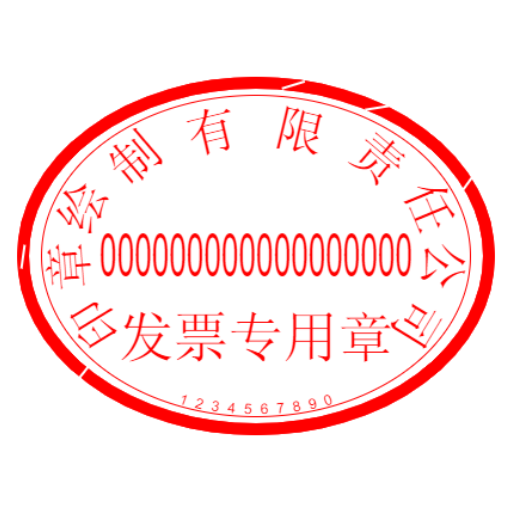
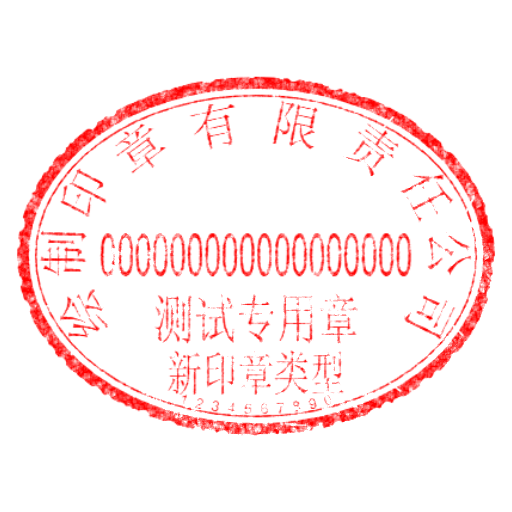
docs: 修改README.md说明和图片

Changed region(s): [[0.0312, 0.125, 0.9688, 0.875]]

diff --git a/README.md b/README.md
@@ -74,9 +74,7 @@ npm run preview
 ![Stamp Example](public/stamp_withimage.png)
 ![Stamp Example](public/stamp_multiline.png)
 ![Stamp Example](public/seal.png)
-![Stamp Designer](public/roughedge.png)
 ![Stamp Designer](public/designer.png)
-![Stamp Designer](public/stamp_break.png)
 DrawStampUtils.ts 使用说明
 
 DrawStampUtils.ts 是该项目的核心文件之一，用于生成电子印章。以下是如何使用 DrawStampUtils.ts 的示例：
@@ -159,98 +157,98 @@ DrawStampUtils 支持以下配置选项：
 
 以下是 DrawStampUtils 支持的主要配置选项及其功能：
 
-| 配置选项 | 功能描述 |
-|---------|--------|
-| ISecurityPattern | 控制防伪纹路的相关参数 |
-| - openSecurityPattern | 是否启用防伪纹路 |
-| - securityPatternWidth | 设置防伪纹路的宽度 |
-| - securityPatternLength | 设置防伪纹路的长度 |
-| - securityPatternCount | 设置防伪纹路的数量 |
-| - securityPatternAngleRange | 设置防伪纹路的角度范围 |
-| ICompany | 控制印章公司相关的参数 |
-| - companyName | 设置公司名称 |
-| - compression | 控制公司名称的压缩比例 |
-| - borderOffset | 设置边框偏移量 |
-| - textDistributionFactor | 控制文字分布因子 |
-| - fontFamily | 设置字体 |
-| - fontHeight | 设置字体高度 |
-| - adjustEllipseText | 是否调整椭圆文字间距 |
-| - adjustEllipseTextFactor | 椭圆文字间距调整因子 |
-| ICode | 控制印章编码相关的参数 |
-| - code | 设置编码内容 |
-| - compression | 控制编码的压缩比例 |
-| - fontHeight | 设置编码字体大小 |
-| - fontFamily | 设置编码字体 |
-| - borderOffset | 设置编码边框偏移量 |
-| - fontWidth | 设置编码字体宽度 |
-| - textDistributionFactor | 控制编码文字分布因子 |
-| ITaxNumber | 控制税号相关的参数 |
-| - code | 设置税号内容 |
-| - compression | 控制税号的压缩比例 |
-| - fontHeight | 设置税号字体大小 |
-| - fontFamily | 设置税号字体 |
-| - fontWidth | 设置税号字体宽度 |
-| - letterSpacing | 控制税号字符间距 |
-| - positionY | 设置税号文字垂直位置 |
-| - totalWidth | 设置税号文字总宽度 |
-| IAgingEffectParams | 控制做旧效果的相关参数 |
-| - x | 设置做旧效果的 x 轴位置 |
-| - y | 设置做旧效果的 y 轴位置 |
-| - noiseSize | 控制噪声大小 |
-| - noise | 控制噪声强度 |
-| - strongNoiseSize | 控制强噪声大小 |
-| - strongNoise | 控制强噪声强度 |
-| - fade | 控制淡化强度 |
-| - seed | 设置随机种子 |
+| 配置选项 | 功能描述           |
+|---------|----------------|
+| ISecurityPattern | 控制防伪纹路的相关参数    |
+| - openSecurityPattern | 是否启用防伪纹路       |
+| - securityPatternWidth | 设置防伪纹路的宽度      |
+| - securityPatternLength | 设置防伪纹路的长度      |
+| - securityPatternCount | 设置防伪纹路的数量      |
+| - securityPatternAngleRange | 设置防伪纹路的角度范围    |
+| ICompany | 控制印章公司相关的参数    |
+| - companyName | 设置公司名称         |
+| - compression | 控制公司名称的压缩比例    |
+| - borderOffset | 设置边框偏移量        |
+| - textDistributionFactor | 控制文字分布因子       |
+| - fontFamily | 设置字体           |
+| - fontHeight | 设置字体高度         |
+| - adjustEllipseText | 是否调整椭圆文字间距     |
+| - adjustEllipseTextFactor | 椭圆文字间距调整因子     |
+| ICode | 控制印章编码相关的参数    |
+| - code | 设置编码内容         |
+| - compression | 控制编码的压缩比例      |
+| - fontHeight | 设置编码字体大小       |
+| - fontFamily | 设置编码字体         |
+| - borderOffset | 设置编码边框偏移量      |
+| - fontWidth | 设置编码字体宽度       |
+| - textDistributionFactor | 控制编码文字分布因子     |
+| ITaxNumber | 控制税号相关的参数      |
+| - code | 设置税号内容         |
+| - compression | 控制税号的压缩比例      |
+| - fontHeight | 设置税号字体大小       |
+| - fontFamily | 设置税号字体         |
+| - fontWidth | 设置税号字体宽度       |
+| - letterSpacing | 控制税号字符间距       |
+| - positionY | 设置税号文字垂直位置     |
+| - totalWidth | 设置税号文字总宽度      |
+| IAgingEffectParams | 控制做旧效果的相关参数    |
+| - x | 设置做旧效果的 x 轴位置  |
+| - y | 设置做旧效果的 y 轴位置  |
+| - noiseSize | 控制噪声大小         |
+| - noise | 控制噪声强度         |
+| - strongNoiseSize | 控制强噪声大小        |
+| - strongNoise | 控制强噪声强度        |
+| - fade | 控制淡化强度         |
+| - seed | 设置随机种子         |
 | IRoughEdge | 控制印章边缘毛边效果的相关参数 |
-| - shouldDrawRoughEdge | 是否绘制毛边效果 |
-| - roughEdgeWidth | 设置毛边宽度 |
-| - roughEdgeHeight | 设置毛边高度 |
-| - roughEdgeProbability | 控制毛边出现的概率 |
-| - roughEdgeShift | 设置毛边偏移量 |
-| - roughEdgePoints | 设置毛边点的数量 |
-| IStampType | 控制印章类型文字的相关参数 |
-| - stampType | 设置印章类型文字 |
-| - fontHeight | 设置印章类型文字高度 |
-| - compression | 设置印章类型文字压缩比例 |
-| - letterSpacing | 设置印章类型文字字符间距 |
-| - positionY | 设置印章类型文字位置 |
-| - fontWidth | 设置印章类型文字宽度 |
-| - lineSpacing | 设置印章类型文字行间距 |
-| IDrawStar | 控制五角星/图片相关的参数 |
-| - drawStar | 是否绘制五角星/图片 |
-| - useImage | 是否使用图片代替五角星 |
-| - imageUrl | 图片的URL |
-| - imageWidth | 图片宽度(mm) |
-| - imageHeight | 图片高度(mm) |
-| - keepAspectRatio | 是否保持图片原始宽高比 |
+| - shouldDrawRoughEdge | 是否绘制毛边效果       |
+| - roughEdgeWidth | 设置毛边宽度         |
+| - roughEdgeHeight | 设置毛边高度         |
+| - roughEdgeProbability | 控制毛边出现的概率      |
+| - roughEdgeShift | 设置毛边偏移量        |
+| - roughEdgePoints | 设置毛边点的数量       |
+| IStampType | 控制印章类型文字的相关参数  |
+| - stampType | 设置印章类型文字       |
+| - fontHeight | 设置印章类型文字高度     |
+| - compression | 设置印章类型文字压缩比例   |
+| - letterSpacing | 设置印章类型文字字符间距   |
+| - positionY | 设置印章类型文字位置     |
+| - fontWidth | 设置印章类型文字宽度     |
+| - lineSpacing | 设置印章类型文字行间距    |
+| IDrawStar | 控制五角星/图片相关的参数  |
+| - drawStar | 是否绘制五角星/图片     |
+| - useImage | 是否使用图片代替五角星    |
+| - imageUrl | 图片的URL         |
+| - imageWidth | 图片宽度(mm)       |
+| - imageHeight | 图片高度(mm)       |
+| - keepAspectRatio | 是否保持图片原始宽高比    |
 | - starDiameter | 五角星直径（使用五角星时有效） |
-| - starPositionY | 五角星/图片的垂直位置 |
+| - starPositionY | 五角星/图片的垂直位置    |
 | companyList | 公司名称列表，支持多行公司名称 |
-| - companyName | 设置公司名称 |
-| - compression | 控制公司名称的压缩比例 |
-| - borderOffset | 设置边框偏移量 |
-| - textDistributionFactor | 控制文字分布因子 |
-| - fontFamily | 设置字体 |
-| - fontHeight | 设置字体高度 |
-| - fontWeight | 设置字体粗细 |
-| - adjustEllipseText | 是否调整椭圆文字间距 |
-| - adjustEllipseTextFactor | 椭圆文字间距调整因子 |
+| - companyName | 设置公司名称         |
+| - compression | 控制公司名称的压缩比例    |
+| - borderOffset | 设置边框偏移量        |
+| - textDistributionFactor | 控制文字分布因子       |
+| - fontFamily | 设置字体           |
+| - fontHeight | 设置字体高度         |
+| - fontWeight | 设置字体粗细         |
+| - adjustEllipseText | 是否调整椭圆文字间距     |
+| - adjustEllipseTextFactor | 椭圆文字间距调整因子     |
 | stampTypeList | 印章类型列表，支持多行印章类型 |
-| - stampType | 设置印章类型文字 |
-| - fontHeight | 设置字体高度 |
-| - fontFamily | 设置字体 |
-| - compression | 设置压缩比例 |
-| - letterSpacing | 设置字符间距 |
-| - positionY | 设置垂直位置 |
-| - fontWidth | ��置字体宽度 |
-| - fontWeight | 设置字体粗细 |
-| - lineSpacing | 设置行间距 |
+| - stampType | 设置印章类型文字       |
+| - fontHeight | 设置字体高度         |
+| - fontFamily | 设置字体           |
+| - compression | 设置压缩比例         |
+| - letterSpacing | 设置字符间距         |
+| - positionY | 设置垂直位置         |
+| - fontWidth | 设置字体宽度         |
+| - fontWeight | 设置字体粗细         |
+| - lineSpacing | 设置行间距          |
 | innerCircleList | 内圈圆形列表，支持多个内圈圆形 |
-| - drawInnerCircle | 是否绘制该内圈圆形 |
-| - innerCircleLineWidth | 设置内圈圆形的线宽 |
-| - innerCircleLineRadiusX | 设置内圈圆形的水平半径 |
-| - innerCircleLineRadiusY | 设置内圈圆形的垂直半径 |
+| - drawInnerCircle | 是否绘制该内圈圆形      |
+| - innerCircleLineWidth | 设置内圈圆形的线宽      |
+| - innerCircleLineRadiusX | 设置内圈圆形的水平半径    |
+| - innerCircleLineRadiusY | 设置内圈圆形的垂直半径    |
 
 
 完整示例
